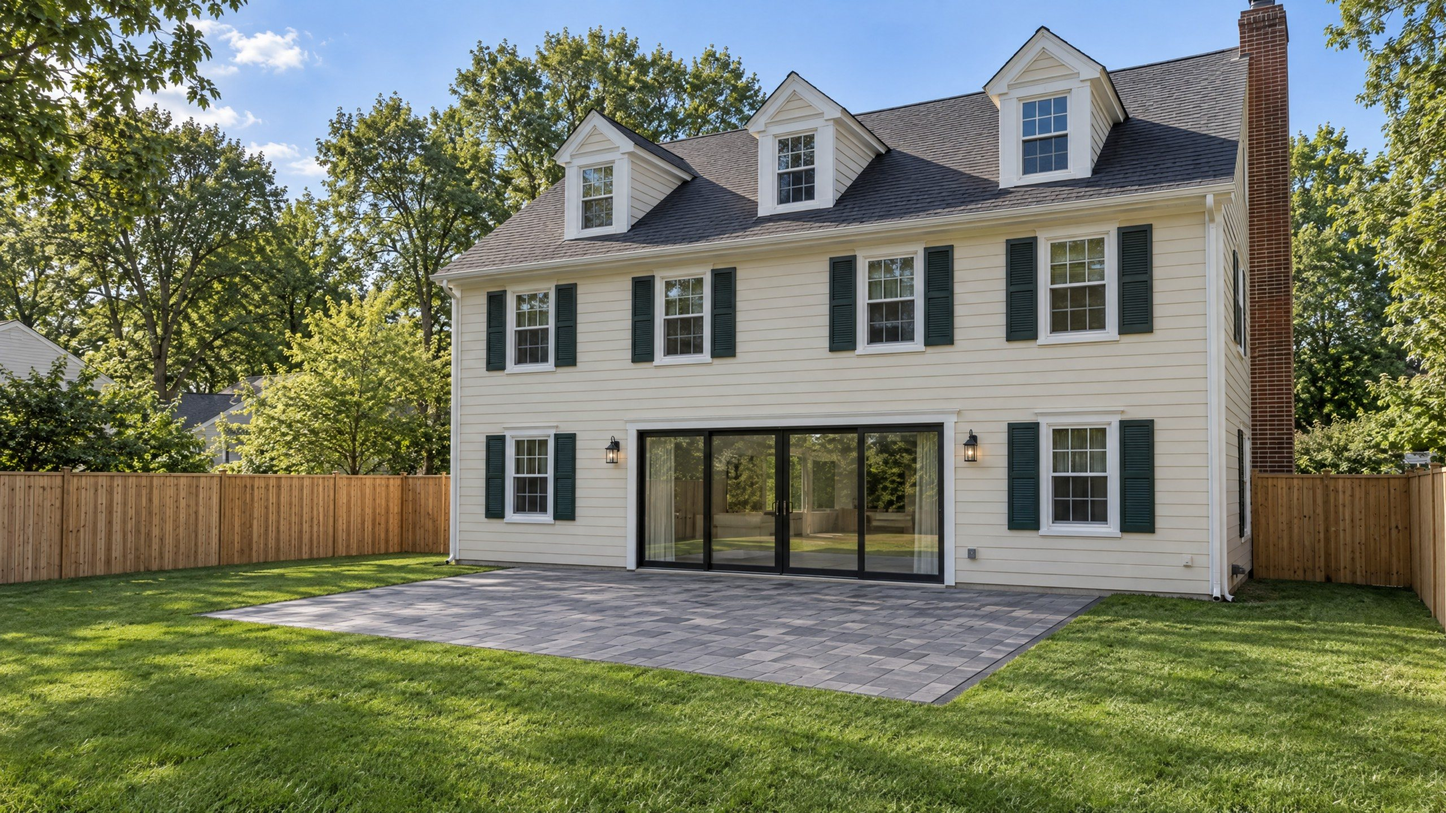
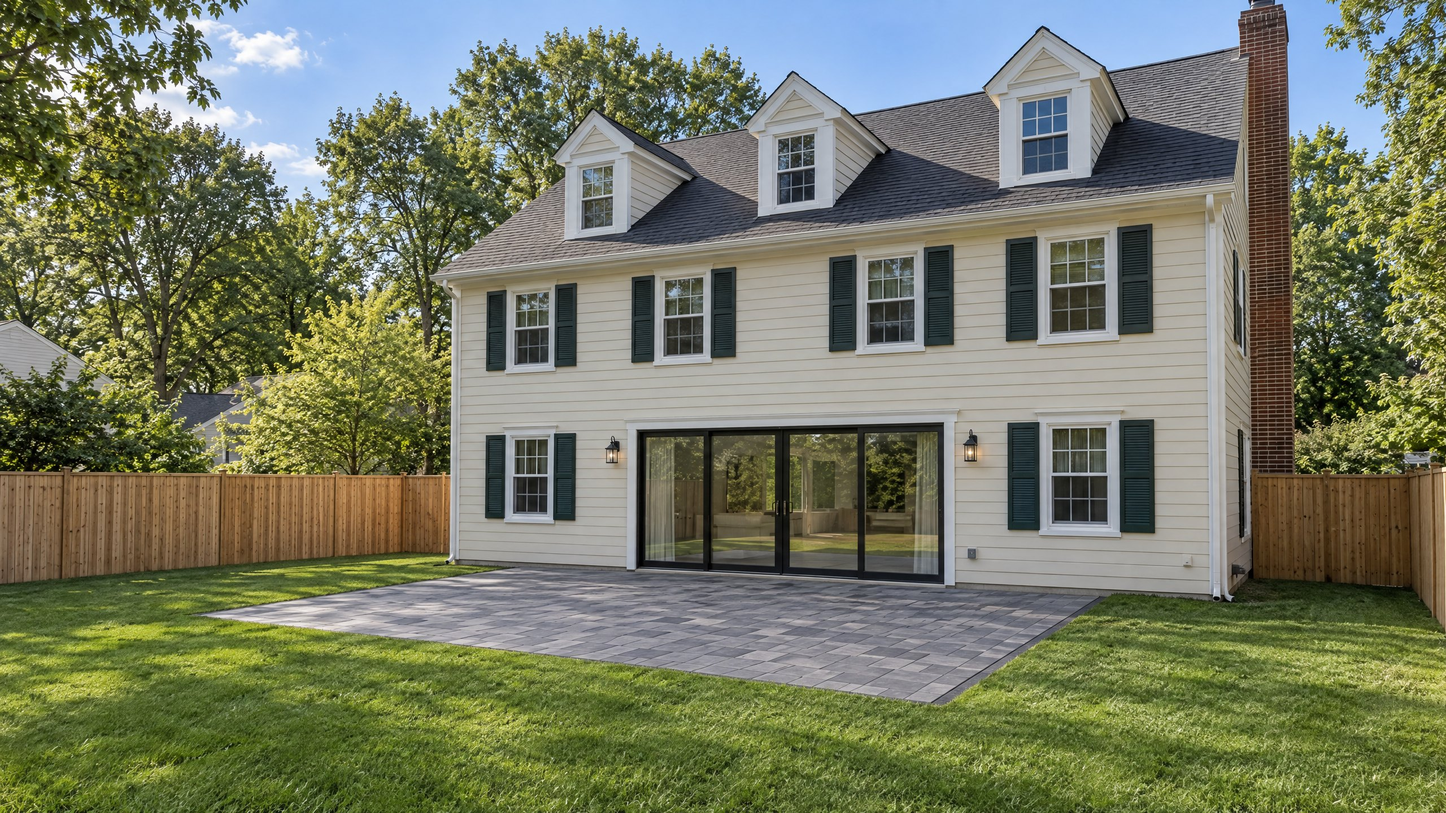
Larkspur demo: original renders, stone and fire variants wired to the configurator
Claude-Session: https://claude.ai/code/session_01YUM58pQzzCwZw7wn9K1kUG

Changed region(s): [[0.9375, 0.0, 1.0, 0.125], [0.9375, 0.1875, 0.9688, 0.2188]]

diff --git a/larkspur-outdoor/index.html b/larkspur-outdoor/index.html
@@ -97,7 +97,7 @@ a{color:inherit}
 /* configurator sections */
 .room{position:relative;z-index:2;height:100vh;height:100svh;min-height:560px;display:grid;grid-template-rows:auto 1fr auto;padding-top:calc(68px + env(safe-area-inset-top,0px) + 18px);padding-bottom:max(28px,env(safe-area-inset-bottom,0px));overflow:hidden;background:var(--ink)}
 .room>.bg{position:absolute;inset:0;z-index:-1}
-.room>.bg img{position:absolute;inset:0;width:100%;height:100%;object-fit:cover;max-width:none;opacity:0;transition:opacity .9s ease;transform:scale(1.06);will-change:transform,opacity}
+.room>.bg img{position:absolute;inset:0;width:100%;height:100%;object-fit:cover;object-position:50% 72%;max-width:none;opacity:0;transition:opacity .9s ease;transform:scale(1.06);will-change:transform,opacity}
 .room>.bg img.on{opacity:1}
 .room.in>.bg img.on{animation:kb 14s ease-out forwards}
 @keyframes kb{from{transform:scale(1.06)}to{transform:scale(1.0)}}
@@ -217,7 +217,7 @@ a{color:inherit}
 </section>
 
 <section class="room gutter" id="patio" data-sec="patio">
-  <div class="bg"><img src="renders/patio-day.jpg" srcset="renders/patio-day-m.jpg 1280w, renders/patio-day.jpg 2560w" sizes="100vw" alt="Finished paver patio off the back of the house in late-morning light" class="on" data-img="patio-day"></div>
+  <div class="bg"></div>
   <div class="head"><span class="mono">Step one · Patio</span><h2>Make it yours.</h2><p class="lead">The size sets the base price. The stone is where the look comes from.</p></div>
   <div></div>
   <div class="ctl">
@@ -232,7 +232,7 @@ a{color:inherit}
 </section>
 
 <section class="room gutter" id="fire" data-sec="fire">
-  <div class="bg"><img src="renders/patio-day.jpg" srcset="renders/patio-day-m.jpg 1280w, renders/patio-day.jpg 2560w" sizes="100vw" alt="" data-img="patio-day" class="on"><img src="renders/fire-dusk.jpg" srcset="renders/fire-dusk-m.jpg 1280w, renders/fire-dusk.jpg 2560w" sizes="100vw" alt="Stone seat wall and fire pit at golden hour" data-img="fire-dusk"></div>
+  <div class="bg"></div>
   <div class="head"><span class="mono">Step two · Fire &amp; seating</span><h2>Stay out later.</h2><p class="lead">A seat wall turns the edge of the patio into the best seats. The fire is why people sit there.</p></div>
   <div></div>
   <div class="ctl">
@@ -244,7 +244,7 @@ a{color:inherit}
 </section>
 
 <section class="room gutter" id="plants" data-sec="plants">
-  <div class="bg"><img src="renders/fire-dusk.jpg" srcset="renders/fire-dusk-m.jpg 1280w, renders/fire-dusk.jpg 2560w" sizes="100vw" alt="" data-img="fire-dusk"><img src="renders/patio-day.jpg" srcset="renders/patio-day-m.jpg 1280w, renders/patio-day.jpg 2560w" sizes="100vw" alt="" data-img="patio-day"><img src="renders/plants-day.jpg" srcset="renders/plants-day-m.jpg 1280w, renders/plants-day.jpg 2560w" sizes="100vw" alt="Foundation beds and arborvitae privacy screen in afternoon light" data-img="plants-day" class="on"></div>
+  <div class="bg"></div>
   <div class="head"><span class="mono">Step three · Plantings &amp; lawn</span><h2>Soften the edges.</h2><p class="lead">Pick any of these. Everything is chosen for Zone 7a and guaranteed for a season.</p></div>
   <div></div>
   <div class="ctl">
@@ -256,7 +256,7 @@ a{color:inherit}
 </section>
 
 <section class="room gutter" id="lighting" data-sec="lighting">
-  <div class="bg"><img src="renders/fire-dusk.jpg" srcset="renders/fire-dusk-m.jpg 1280w, renders/fire-dusk.jpg 2560w" sizes="100vw" alt="" data-img="fire-dusk"><img src="renders/lights-night.jpg" srcset="renders/lights-night-m.jpg 1280w, renders/lights-night.jpg 2560w" sizes="100vw" alt="Path lights, uplit trees and the fire at blue hour" data-img="lights-night"></div>
+  <div class="bg"></div>
   <div class="head"><span class="mono">Step four · Lighting</span><h2>Keep it after dark.</h2><p class="lead">Low-voltage LED, warm white, on a timer. You'll use the yard twice as much.</p></div>
   <div></div>
   <div class="ctl">
@@ -402,16 +402,21 @@ a{color:inherit}
     if (st2!==curStage){ var prev=curStage; curStage=st2; caps.forEach(function(c){ var ci=+c.dataset.i; c.classList.toggle('on', ci===st2); c.classList.toggle('out', ci===prev && prev<st2); }); ringLbl.textContent=LBL[st2]; }
     ring.style.strokeDashoffset = 69.1*(1-p); document.getElementById('rail').style.width=(p*100).toFixed(2)+'%';
   }
+  function patioImg(){ return state.paver==='concrete' ? 'patio-day' : 'patio-'+state.paver; }
+  function fireImg(){ return {table:'fire-table', pit:'fire-dusk', place:'fireplace'}[state.fire] || (state.wall==='wall' ? 'fire-dusk' : patioImg()); }
   function photoFor(sec){
-    if (sec==='patio') return 'patio-day';
-    if (sec==='fire') return (state.fire==='none' && state.wall==='none') ? 'patio-day' : 'fire-dusk';
-    if (sec==='plants') return state.beds.length ? 'plants-day' : ((state.fire!=='none'||state.wall==='wall') ? 'fire-dusk' : 'patio-day');
-    if (sec==='lighting') return state.light==='none' ? 'fire-dusk' : 'lights-night';
+    if (sec==='patio') return patioImg();
+    if (sec==='fire') return fireImg();
+    if (sec==='plants') return state.beds.length ? 'plants-day' : fireImg();
+    if (sec==='lighting') return state.light==='none' ? (state.fire==='none' && state.wall==='none' ? patioImg() : fireImg()) : 'lights-night';
     return null;
   }
+  function ensureImg(bg,name){ var im=bg.querySelector('img[data-img="'+name+'"]'); if (im) return im; im=document.createElement('img'); im.dataset.img=name; im.alt=''; im.sizes='100vw'; im.srcset='renders/'+name+'-m.jpg 1280w, renders/'+name+'.jpg 2560w'; im.src='renders/'+name+'.jpg'; bg.appendChild(im); return im; }
   function paintPhotos(){
-    ['patio','fire','plants','lighting'].forEach(function(sec){ var want=photoFor(sec); var el=document.getElementById(sec); el.querySelectorAll('.bg img').forEach(function(im){ im.classList.toggle('on', im.dataset.img===want); }); });
+    ['patio','fire','plants','lighting'].forEach(function(sec){ var want=photoFor(sec); var bg=document.getElementById(sec).querySelector('.bg'); var im=ensureImg(bg,want); bg.querySelectorAll('img').forEach(function(x){ x.classList.toggle('on', x===im); }); if (!im.complete) requestAnimationFrame(function(){ im.classList.add('on'); }); });
   }
+  // warm the variant renders after the hero film has had a head start, so chip taps swap instantly
+  setTimeout(function(){ ['patio-travertine','patio-bluestone','patio-flagstone','fire-table','fireplace','fire-dusk','plants-day','lights-night','patio-day'].forEach(function(n){ var i=new Image(); i.sizes='100vw'; i.srcset='renders/'+n+'-m.jpg 1280w, renders/'+n+'.jpg 2560w'; i.src='renders/'+n+'.jpg'; }); }, 6000);
   function applySection(sec){ /* photos handled by paintPhotos */ }
   function onScroll(){
     var r=heroEl.getBoundingClientRect(); var vh=window.innerHeight;
